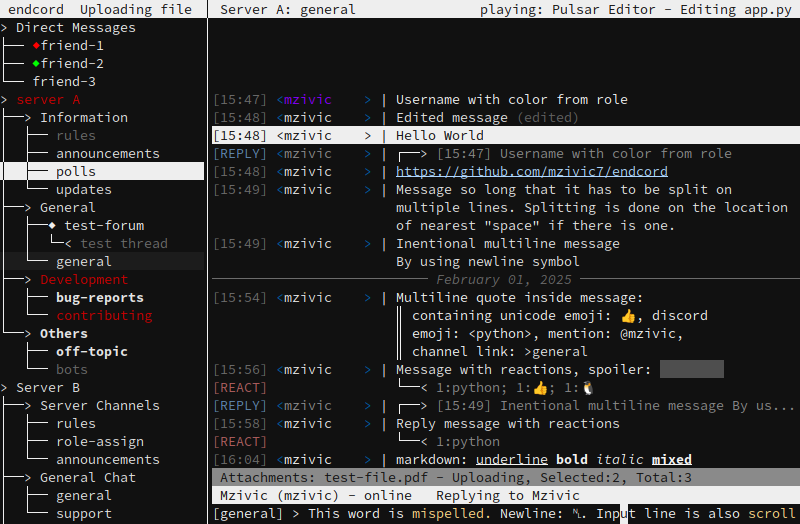
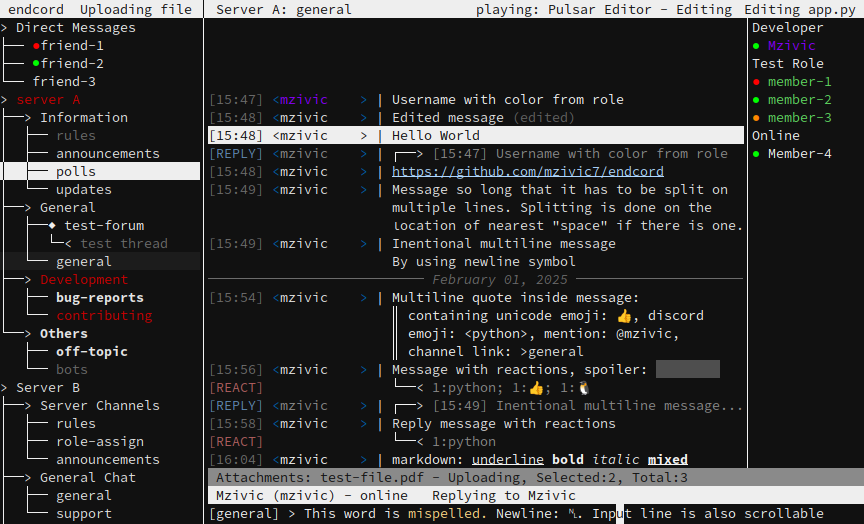
Change default theme Fix member list not updated on server change Fix tree intersections with forum Handle ConnectionResetError

Changed region(s): [[0.2188, 0.0, 1.0, 1.0], [0.0, 0.0, 0.4375, 1.0], [0.8438, 0.5191, 0.875, 0.5496]]

diff --git a/endcord/tui.py b/endcord/tui.py
@@ -54,7 +54,7 @@ class TUI():
         curses.curs_set(0)   # using custom cursor
         print("\x1b[?2004h")   # enable bracketed paste mode
         self.last_free_id = 1   # last free color pair id
-        self.color_cache = []   # for restoring colors
+        self.color_cache = []   # for restoring colors   # 255_curses_bug
         self.attrib_map = [0]   # has 0 so its index starts from 1 to be matched with color pairs
         tree_bg = config["color_tree_default"][1]
         self.init_pair((255, -1))   # white on default
@@ -307,11 +307,6 @@ class TUI():
     def get_last_free_color_id(self):
         """Return last free color id. Should be run at the end of all color initializations in endcord.tui."""
         return self.last_free_id
-
-
-    def get_color_cache(self):
-        """Return first 255 cached colors"""
-        return self.color_cache[:255]
 
 
     def set_selected(self, selected, change_amount=0):
@@ -1045,11 +1040,11 @@ class TUI():
                 attribute = 0
         if force_id:
             curses.init_pair(force_id, fg, bg)
-            self.color_cache = set_list_item(self.color_cache, (fg, bg), force_id)
+            self.color_cache = set_list_item(self.color_cache, (fg, bg), force_id)   # 255_curses_bug
             self.attrib_map = set_list_item(self.attrib_map, attribute, force_id)
         else:
             curses.init_pair(self.last_free_id, fg, bg)
-            self.color_cache.append((fg, bg))
+            self.color_cache.append((fg, bg))   # 255_curses_bug
             self.attrib_map.append(attribute)
         self.last_free_id += 1
         return self.last_free_id - 1
@@ -1115,7 +1110,7 @@ class TUI():
                             break
                     if found:
                         break
-                else:
+                if not found:
                     pair_id = self.init_pair((color, bg, selected_id))
                     role["color_id"] = pair_id
                     pair_id = self.init_pair((color, alt_bg, selected_id))
@@ -1127,7 +1122,7 @@ class TUI():
         return all_roles
 
 
-    def restore_colors(self):
+    def restore_colors(self):   # 255_curses_bug
         """Re-initialize cached colors"""
         for num, color in enumerate(self.color_cache):
             curses.init_pair(num + 1, *color)

diff --git a/endcord/defaults.py b/endcord/defaults.py
@@ -52,8 +52,8 @@ theme = {
     "member_list_width": 20,
     "format_message": "[%timestamp] <%username> | %content %edited",
     "format_newline": "                       %content",
-    "format_reply": "[REPLY] <%username> | /--> [%timestamp] %content",
-    "format_reactions": "[REACT]                \\--< %reactions",
+    "format_reply": "[REPLY] <%username> | ┌──> [%timestamp] %content",
+    "format_reactions": "[REACT]                └──< %reactions",
     "format_one_reaction": "%count:%reaction",
     "format_timestamp": "%H:%M",
     "format_status_line_l": " %global_name (%username) - %status  %unreads %action %typing",
@@ -67,24 +67,24 @@ theme = {
     "format_forum_timestamp": "%Y-%m-%d",
     "format_search_message": "%channel: [%date] <%username> | %content",
     "edited_string": "(edited)",
-    "quote_character": "|",
+    "quote_character": "║",
     "reactions_separator": "; ",
-    "chat_date_separator": "-",
+    "chat_date_separator": "─",
     "format_date": " %B %d, %Y ",
     "limit_username": 10,
     "limit_global_name": 15,
     "limit_typing_string": 30,
     "limit_prompt": 15,
     "limit_thread_name": 0,
-    "tree_vert_line": "|",
-    "tree_drop_down_vline": "|",
-    "tree_drop_down_hline": "-",
-    "tree_drop_down_intersect": "|",
-    "tree_drop_down_corner": "\\",
+    "tree_vert_line": "│",
+    "tree_drop_down_vline": "│",
+    "tree_drop_down_hline": "─",
+    "tree_drop_down_intersect": "├",
+    "tree_drop_down_corner": "└",
     "tree_drop_down_pointer": ">",
     "tree_drop_down_thread": "<",
     "tree_drop_down_forum": "◆",
-    "tree_dm_status": "◆",
+    "tree_dm_status": "●",
     "username_role_colors": True,
     "color_default": [-1, -1],
     "color_chat_mention": [209, 234],

diff --git a/endcord/app.py b/endcord/app.py
@@ -430,13 +430,18 @@ class Endcord:
                     if guild["guild_id"] == self.active_channel["guild_id"]:
                         self.current_members = guild["members"]
                         break
+                else:
+                    self.current_members = []
             for guild in self.subscribed_members:
                 if guild["guild_id"] == self.active_channel["guild_id"]:
                     self.current_subscribed_members = guild["members"]
                     break
+                else:
+                    self.current_subscribed_members = []
 
         # manage roles
         if guild_id:   # for guilds only
+            # 255_curses_bug - make it run on init only
             self.all_roles = self.tui.init_role_colors(
                 self.all_roles,
                 self.default_msg_color[1],
@@ -2751,7 +2756,7 @@ class Endcord:
             self.tui.lock_ui(True)
             self.curses_media.play(path)
             # restore first 255 colors, attributes were not modified
-            self.tui.restore_colors()
+            self.tui.restore_colors()   # 255_curses_bug
             self.tui.lock_ui(False)
 
 
@@ -2814,7 +2819,7 @@ class Endcord:
 
     def update_member_list(self, last_index=None):
         """Generate member list and update it in TUI"""
-        if last_index is not None and not self.tui.mlist_index < last_index < self.tui.mlist_index + self.screen.getmaxyx()[0]:
+        if last_index is not None and not self.tui.mlist_index-1 < last_index < self.tui.mlist_index-1 + self.screen.getmaxyx()[0]:
             return   # dont regenerate for changes that are not visible
         member_list, member_list_format = formatter.generate_member_list(
             self.current_members,

diff --git a/endcord/media.py b/endcord/media.py
@@ -54,10 +54,8 @@ class CursesMedia():
         self.show_ui()
 
         self.media_screen_size = self.media_screen.getmaxyx()
-        # self.init_colrs()
-        # https://github.com/python/cpython/issues/119138
-        # as temporary fix, old color pairs are cached and replaced, later restored
-        self.start_color_id = 0
+        # self.init_colrs()   # 255_curses_bug - enable this
+        self.start_color_id = 0   # 255_curses_bug
 
 
     def init_colrs(self):
@@ -143,7 +141,7 @@ class CursesMedia():
             self.media_type = "gif"
             self.play_anim(img_path)
             return
-        self.init_colrs()
+        self.init_colrs()   # 255_curses_bug
         self.hide_ui()
         self.pil_img_to_curses(img)
         while self.playing:
@@ -158,7 +156,7 @@ class CursesMedia():
 
     def play_anim(self, gif_path):
         """Convert animated image to colored ascii art and draw it with curses"""
-        self.init_colrs()
+        self.init_colrs()   # 255_curses_bug
         self.hide_ui()
         gif = Image.open(gif_path)
         frame = 0
@@ -181,7 +179,7 @@ class CursesMedia():
 
     def play_audio(self, path, seek=None):
         """Play only audio"""
-        self.init_colrs()
+        self.init_colrs()   # 255_curses_bug
         self.show_ui()
         container = av.open(path)
         self.ended = False
@@ -266,7 +264,7 @@ class CursesMedia():
 
     def play_video(self, path, seek=None):
         """Decode video and audio frames and manage queues"""
-        self.init_colrs()
+        self.init_colrs()   # 255_curses_bug
         self.show_ui()
         container = av.open(path)
         self.ended = False

diff --git a/endcord/formatter.py b/endcord/formatter.py
@@ -1969,7 +1969,8 @@ def generate_tree(dms, guilds, threads, unseen, mentioned, guild_positions, acti
             if code == 1300 and (tree_format[num - 1] // 100) % 10 == 4:   # thread end if there are threads
                 tree[num - 1] = f"{pass_by}{pass_by}{end_thread}{tree[num - 1][9:]}"
             elif tree[num - 1][:4] != f"{intersection}{dd_pointer}":
-                if tree[num][:3] == pass_by:
+                if (tree_format[num - 1] < 500 or tree_format[num - 1] > 599) and tree[num][:3] == pass_by:
+                    # skipping colapsed forums
                     tree[num - 1] = pass_by_end + tree[num - 1][6:]
                 elif tree[num - 1][:3] == intersection:
                     tree[num - 1] = intersection_end + tree[num - 1][3:]

diff --git a/endcord/gateway.py b/endcord/gateway.py
@@ -236,7 +236,11 @@ class Gateway():
         self.resumable = False
         abnormal = False
         while self.run and not self.wait:
-            ws_opcode, data = self.ws.recv_data()
+            try:
+                ws_opcode, data = self.ws.recv_data()
+            except ConnectionResetError:
+                self.resumable = True
+                break
             if ws_opcode == 8 and len(data) >= 2:
                 if not data:
                     self.resumable = True

diff --git a/configuration.md b/configuration.md
@@ -120,9 +120,9 @@ Note: always put string in `""`. To use `"` inside the string escape it like thi
     Formatting for message base string. See [format_message](#format_message) for more info.
 - `format_newline = "                       %content"`  
     Formatting for each newline string after message base. See [format_newline](#format_newline) for more info.
-- `format_reply = "[REPLY] <%username> | /--> [%timestamp] %content"`  
+- `format_reply = [REPLY] <%username> | ┌──> [%timestamp] %content"`  
     Formatting for replied message string. It is above message base. See [format_reply](#format_reply) for more info.
-- `format_reactions = "[REACT]                \\--< %reactions"`  
+- `format_reactions = "[REACT]                └──< %reactions"`  
     Formatting for message reactions string. It is bellow last newline string. See [format_reactions](#format_reactions) for more info.
 - `format_one_reaction = "%count:%reaction"`  
     Formatting for single reaction string. Reactions string is assembled by joining these strings with `reactions_separator` in between. See [format_one_reaction](#format_one_reaction) for more info.
@@ -150,11 +150,11 @@ Note: always put string in `""`. To use `"` inside the string escape it like thi
     Formatting for message line in extra window when searching. See [format_search_message](#format_search_message) for more info.
 - `edited_string = "(edited)"`  
     A string added to the end of the message when it is edsited.
-- `quote_character = "|"`  
+- `quote_character = "║"`  
     A character that is prepended to each line of songle or multiline quote.
 - `reactions_separator = "; "`  
     A string placed between two reactions.
-- `chat_date_separator = "-"`  
+- `chat_date_separator = "─"`  
     A single character used to draw horizontal line for separating messages sent on different days. Set to None to disable date separator.
 - `format_date = " %B %d, %Y "`  
     Format for timestamps in `chat_date_separator`. Same as [datetime format codes](https://docs.python.org/3/library/datetime.html#strftime-and-strptime-format-codes).
@@ -168,15 +168,15 @@ Note: always put string in `""`. To use `"` inside the string escape it like thi
     Limit to the thread name string length.
 - `limit_thread_name = 0`  
     Limit to `%username`, `%global_name`, `%server` and ``%channel` length in `format_prompt`.
-- `tree_vert_line = "|"`  
+- `tree_vert_line = "│"`  
     A single character used to draw vertical line separating channel tree and the chat.
-- `tree_drop_down_vline = "|"`  
+- `tree_drop_down_vline = "│"`  
     A single character used to draw vertical line in tree drop down menus.
-- `tree_drop_down_hline = "-"`  
+- `tree_drop_down_hline = "─"`  
     A single character used to draw horizontal line in tree drop down menus.
-- `tree_drop_down_intersect = "|"`  
+- `tree_drop_down_intersect = "├"`  
     A single character used to draw intersections in tree drop down menus.
-- `tree_drop_down_corner = "\\"`  
+- `tree_drop_down_corner = "└"`  
     A single character used to draw corners in tree drop down menus.
 - `tree_drop_down_pointer = ">"`  
     A single character used to draw pointer in tree drop down menus. Pointer is used to designate categories and servers.
@@ -184,7 +184,7 @@ Note: always put string in `""`. To use `"` inside the string escape it like thi
     A single character used to draw thread pointer in tree drop down menus.
 - `tree_drop_down_forum = "◆"`  
     A single character used to draw forum pointer in tree drop down menus.
-- `tree_dm_status = "◆"`  
+- `tree_dm_status = "●"`  
     A single character prepended to DM name in tree drop down, to indicate status: online/away/dnd. Also used in member list.
 - `username_role_colors = True`  
     Allow `%username` and `%global_name` to have color of primary role.

diff --git a/.github/screenshots.md b/.github/screenshots.md
@@ -1,18 +1,20 @@
 <div align="center">
 <h1>Endcord</h1> <br
 <a href="https://github.com/mzivic7/endcord?tab=readme-ov-file#features">Features</a> |
-<a href="https://github.com/mzivic7/endcord/blob/main/screenshots.md">Screenshots</a> |
 <a href="https://github.com/mzivic7/endcord?tab=readme-ov-file#configuration">Config</a> |
 <a href="https://github.com/mzivic7/endcord?tab=readme-ov-file#usage">Usage</a> |
 <a href="https://github.com/mzivic7/endcord?tab=readme-ov-file#installing">Installing</a> |
 <a href="https://github.com/mzivic7/endcord?tab=readme-ov-file#building">Building</a> |
-<a href="https://github.com/mzivic7/endcord?tab=readme-ov-file#faq">FAQ</a>
+<a href="https://github.com/mzivic7/endcord/blob/main/.github/CONTRIBUTING.md">Contributing</a> |
+<a href="https://github.com/mzivic7/endcord?tab=readme-ov-file#faq">FAQ</a> |
+<a href="https://github.com/mzivic7/endcord?tab=readme-ov-file#support">Support</a>
+<img src="./.github/screenshots/02.png" alt="Screenshot 1" width="864">
 <br><br>
 <b>Standard theme:<b><br>
-<img src="./screenshots/01.png" alt="Standard theme" width="864">
+<img src="./screenshots/02.png" alt="Standard theme" width="864">
 <br><br>
 <b>Alternate theme with better lines:<b><br>
-<img src="./screenshots/02.png" alt="Alternate theme with better lines" width="800">
+<img src="./screenshots/01.png" alt="Legacy theme" width="800">
 <br><br>
 <b>Viewing user profile:<b><br>
 <img src="./screenshots/03.png" alt="Viewing user profile" width="800">

diff --git a/.github/CONTRIBUTING.md b/.github/CONTRIBUTING.md
@@ -34,6 +34,7 @@ So, before even thinking about putting it through LLM, open an issue and save yo
 ### Debug points in code
 - `debug_events` - save all received events from gateway
 - `debug_guilds_tree` - print all tree data in jsons
+- `255_curses_bug` - this part of the code should be changed after [ncurses bug](https://github.com/python/cpython/issues/119138) is fixed. If there is no note, just remove the code
 
 ### Network tab filter
 Filter for network tab in dev tool:  
@@ -113,7 +114,7 @@ https://github.com/discord-userdoccers/discord-userdoccers
 |  |--> CHANNEL
 |  |  |-< THREAD
 |  |  \-< THREAD
-|  |  end_channel 1100
+|  |  end_channel 1300
 |  \--> CHANNEL
 |  end_category 1200
 |--> CATEGORY

diff --git a/README.md b/README.md
@@ -9,7 +9,7 @@
 <a href="https://github.com/mzivic7/endcord/blob/main/.github/CONTRIBUTING.md">Contributing</a> |
 <a href="https://github.com/mzivic7/endcord?tab=readme-ov-file#faq">FAQ</a> |
 <a href="https://github.com/mzivic7/endcord?tab=readme-ov-file#support">Support</a>
-<img src="./.github/screenshots/01.png" alt="Screenshot 1" width="864">
+<img src="./.github/screenshots/02.png" alt="Screenshot 1" width="864">
 </div>
 
 Endcord is a third-party feature rich Discord client, running entirely in terminal.  
